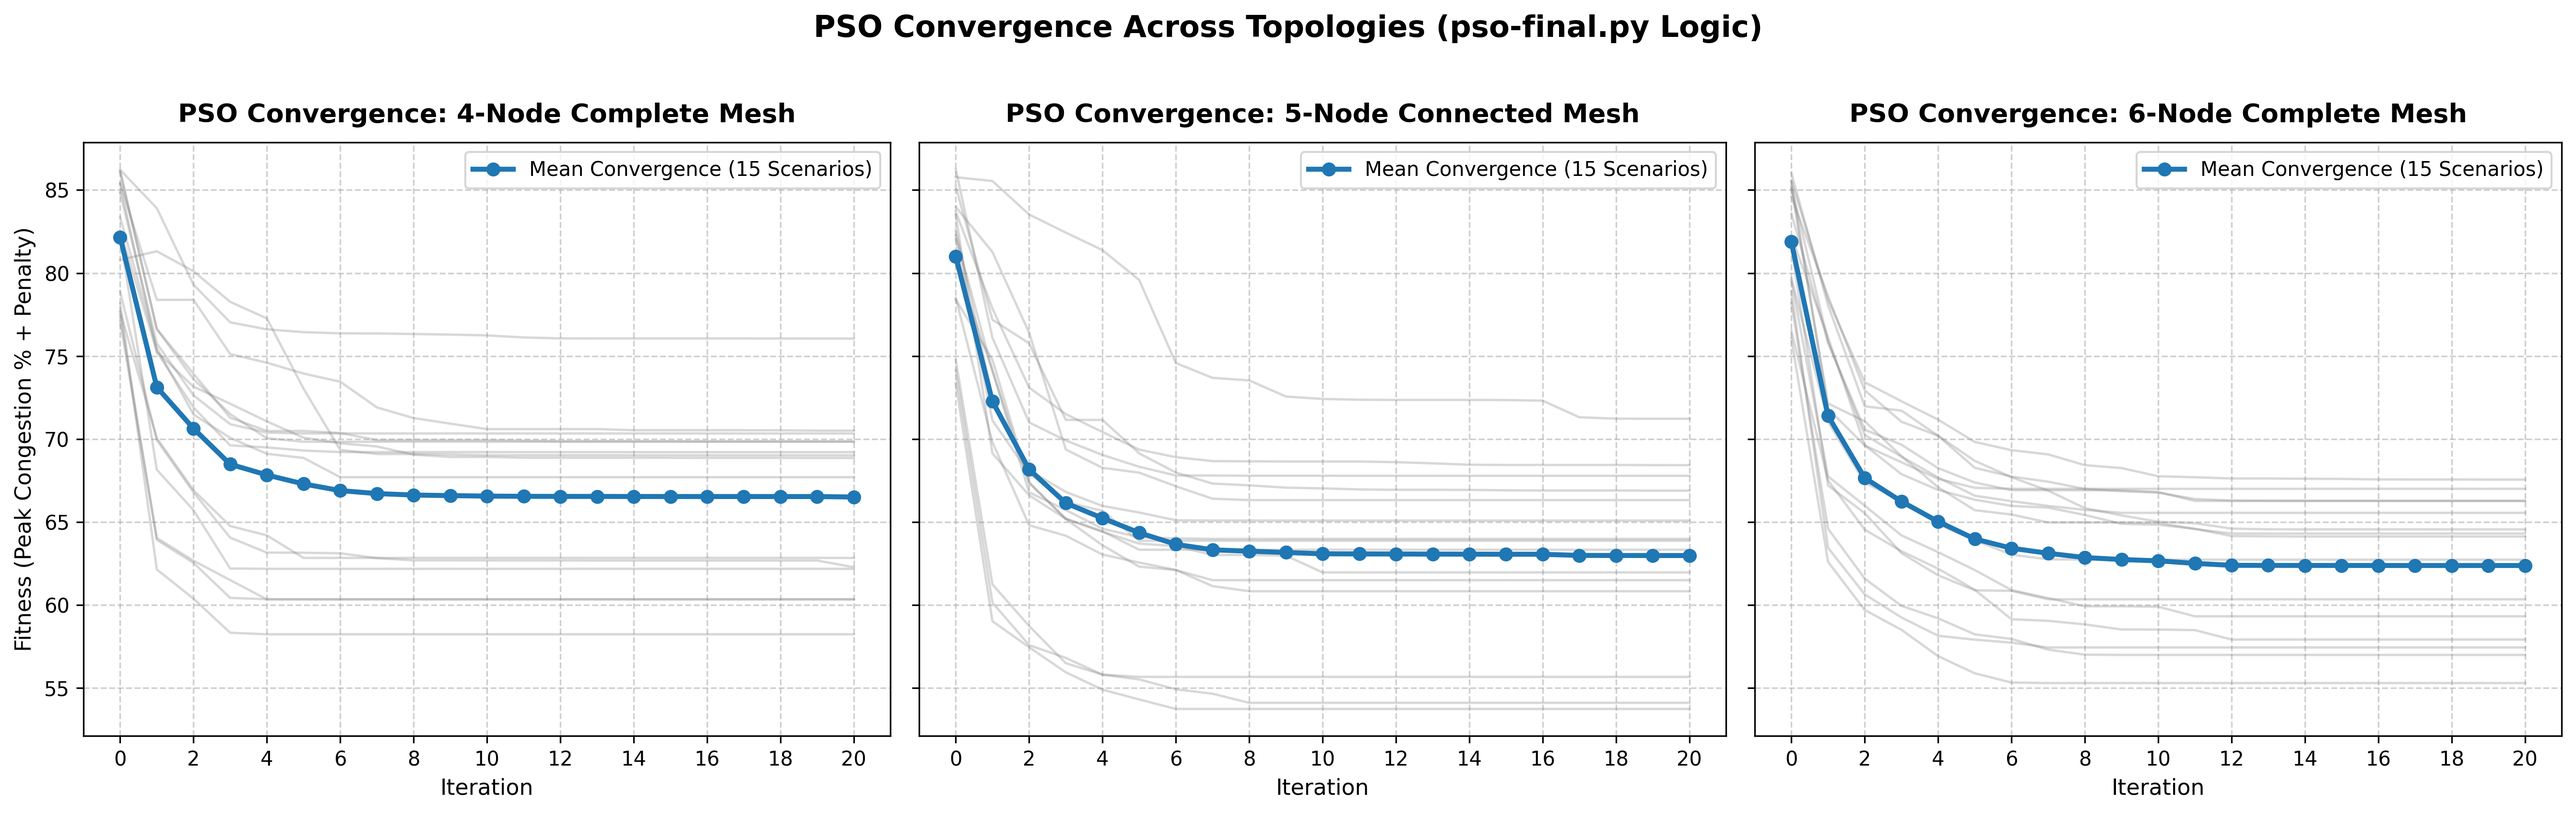
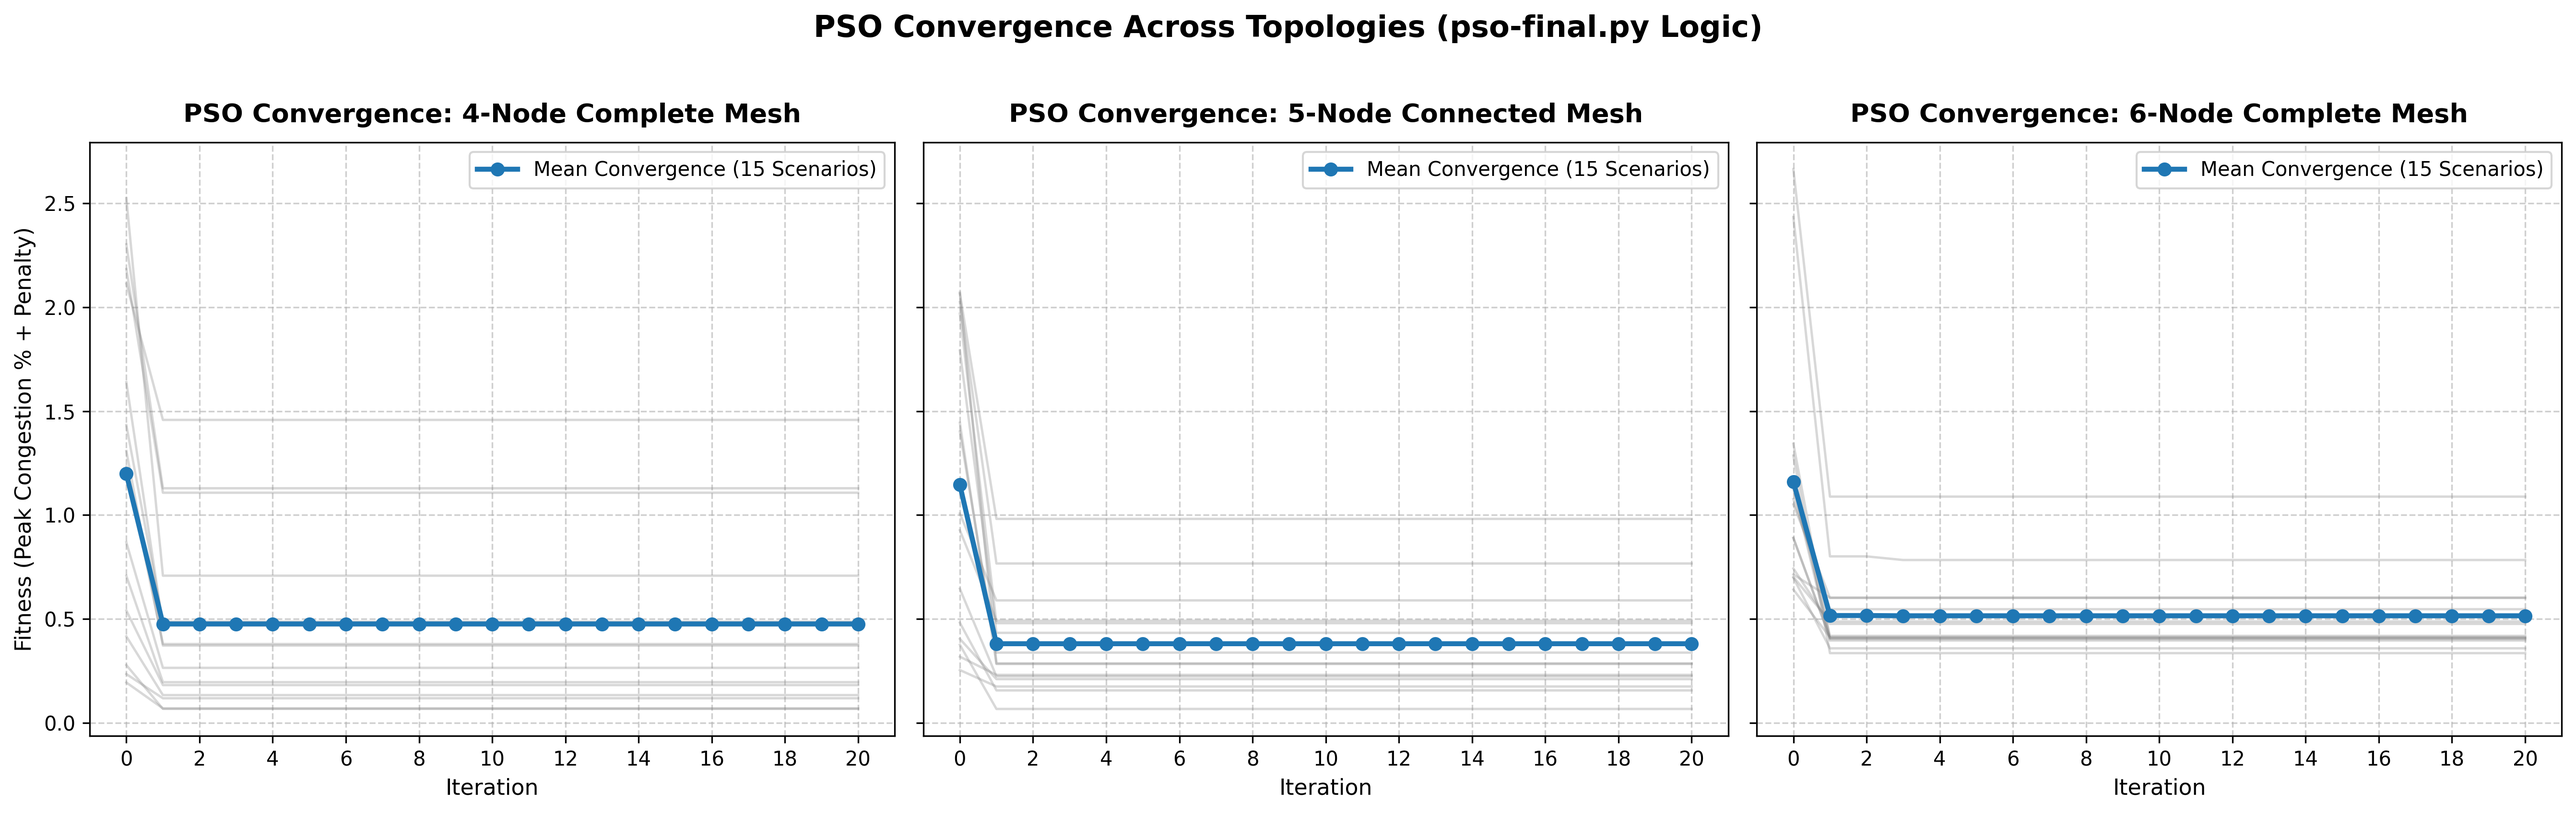
update

diff --git a/backend/pso.py b/backend/pso.py
@@ -1,45 +1,61 @@
 """
 pso.py
 ======
-Particle Swarm Optimization engine for traffic signal optimization using pso-final.py logic.
+Discrete / Binary Particle Swarm Optimization (BPSO) engine for traffic rerouting.
+
+Operates on the EXACT SAME topology analysis, packet definitions, candidate routes,
+route-decoding logic (`apply_solution`), and QUBO objective function as QAOA (`final_qaoa_with_signal.py`).
 
 Algorithm Overview:
-    Each particle encodes candidate signal plan factors for all network edges:
-        position = [s_1, s_2, ..., s_E] ∈ [0, 1]^E
+    Each particle encodes candidate packet rerouting bitstrings for all N binary variables:
+        position = [x_1, x_2, ..., x_N] ∈ R^N
+        bitstring = [b_1, b_2, ..., b_N] ∈ {0, 1}^N via sigmoid thresholding
 
-    Velocities:
-        v_i = 0.5 * v_i + 1.5 * r1 * (pbest_i - position_i) + 1.5 * r2 * (gbest - position_i)
-        position_i = clip(position_i + v_i, 0, 1)
+    Velocities & Positions:
+        v_i = w * v_i + c1 * r1 * (pbest_i - position_i) + c2 * r2 * (gbest_i - position_i)
+        position_i = clip(position_i + v_i, -10.0, 10.0)
 
-    Traffic Redistribution (pso-final.py):
-        redistributed = base_traffic * (1 - 0.3 * position)
-        conserved_flow = (redistributed / sum(redistributed)) * sum(base_traffic)
-
-    Fitness (pso-final.py):
-        occs = conserved_flow / capacities
-        peak_congestion = max(occs) * 100.0
-        penalty = sum(max(occs - threshold_factor, 0))
-        fitness = peak_congestion + penalty
+    Route Decoding & Objective Evaluation:
+        Evaluates the exact QUBO cost H_B(b) and post-optimization edge loads via `apply_solution`.
 """
 
 import numpy as np
-from typing import Dict, List, Tuple
+import math
+from typing import Dict, List, Tuple, Any, Optional
 
 from graph import TrafficGraph
 from predictions import (
     INITIAL_CONGESTION,
     INITIAL_CYCLE_TIMES,
+    ADITYA_INITIAL_CYCLE_TIMES,
+)
+from final_qaoa_with_signal import (
+    build_network,
+    detect_congestion,
+    generate_alternate_routes,
+    generate_packets,
+    build_qubo,
+    apply_solution,
+    evaluate_network,
+    optimize_signals,
+    clean_edge_key,
+    normalize_edge,
 )
 
 
 class Particle:
-    """A single particle in the PSO swarm representing signal plan factors."""
+    """A single particle in the Binary PSO swarm representing route decisions."""
 
     def __init__(self, n_dims: int, rng: np.random.Generator) -> None:
-        self.position: np.ndarray = rng.uniform(0.0, 1.0, n_dims)
-        self.velocity: np.ndarray = np.zeros(n_dims)
+        self.position: np.ndarray = rng.uniform(-2.0, 2.0, n_dims)
+        self.velocity: np.ndarray = rng.uniform(-1.0, 1.0, n_dims)
         self.best_position: np.ndarray = self.position.copy()
+        self.best_bitstring: Tuple[int, ...] = self.to_bitstring()
         self.best_fitness: float = float("inf")
+
+    def to_bitstring(self) -> Tuple[int, ...]:
+        sig = 1.0 / (1.0 + np.exp(-np.clip(self.position, -10.0, 10.0)))
+        return tuple(int(b) for b in (sig >= 0.5))
 
     def update_velocity(
         self, global_best_position: np.ndarray, w: float, c1: float, c2: float, rng: np.random.Generator
@@ -50,9 +66,11 @@ class Particle:
         cognitive = c1 * r1 * (self.best_position - self.position)
         social = c2 * r2 * (global_best_position - self.position)
         self.velocity = w * self.velocity + cognitive + social
+        self.velocity = np.clip(self.velocity, -6.0, 6.0)
 
     def update_position(self) -> None:
-        self.position = np.clip(self.position + self.velocity, 0.0, 1.0)
+        self.position = self.position + self.velocity
+        self.position = np.clip(self.position, -10.0, 10.0)
 
 
 class PSO:
@@ -72,6 +90,7 @@ class PSO:
         self.c1 = c1
         self.c2 = c2
         self.threshold_factor = threshold_factor
+        self.seed = seed
         self.rng = np.random.default_rng(seed)
 
     def optimize(
@@ -84,66 +103,111 @@ class PSO:
         if initial_congestion is None:
             initial_congestion = graph.get_initial_predictions()
         if initial_cycle_times is None:
-            initial_cycle_times = INITIAL_CYCLE_TIMES.copy()
+            initial_cycle_times = ADITYA_INITIAL_CYCLE_TIMES.copy() if graph.network_type == "aditya" else INITIAL_CYCLE_TIMES.copy()
 
-        edges = graph.edges
-        num_edges = len(edges)
+        user_capacities = {e.id: e.capacity for e in graph.edges}
 
-        base_traffic = np.array([initial_congestion.get(e.id, 0.0) for e in edges], dtype=float)
-        capacities = np.array([e.capacity for e in edges], dtype=float)
-        total_traffic = float(np.sum(base_traffic))
+        # 1. Build network & normalize edge representations
+        G, capacities, predicted_loads = build_network(
+            graph=None,
+            capacities=user_capacities,
+            predicted_loads=initial_congestion,
+        )
 
-        def evaluate_particle(pos: np.ndarray) -> Tuple[float, Dict[str, float], Dict[str, float]]:
-            redistributed = base_traffic * (1.0 - 0.3 * pos)
-            if np.sum(redistributed) > 0 and total_traffic > 0:
-                redistributed = (redistributed / np.sum(redistributed)) * total_traffic
-            else:
-                redistributed = base_traffic.copy()
+        # 2. Detect congestion
+        occupancy, congested, underutilized = detect_congestion(capacities, predicted_loads)
 
-            caps_safe = np.where(capacities > 0, capacities, 1.0)
-            occs = np.where(capacities > 0, redistributed / caps_safe, 0.0)
+        # 3. Generate alternate detour routes (top 2 least occupied)
+        alt_routes = generate_alternate_routes(G, congested, occupancy, max_cutoff=3, top_k=2)
 
-            peak_congestion = float(np.max(occs)) * 100.0 if len(occs) > 0 else 0.0
-            penalty = float(np.sum(np.maximum(occs - self.threshold_factor, 0.0)))
-            fit = peak_congestion + penalty
+        # 4. Generate packets
+        packets, variables = generate_packets(
+            congested, predicted_loads, capacities, alt_routes,
+            target=0.50, packet_size=150.0, max_packets=10
+        )
 
-            opt_congestion = {edges[i].id: float(redistributed[i]) for i in range(num_edges)}
+        # Build lookup from tuple edge keys to graph string edge IDs
+        edge_map = {}
+        for edge in graph.edges:
+            norm = normalize_edge(edge.source, edge.target)
+            edge_map[norm] = edge.id
 
-            # Derive node cycle times bounded in [30, 120] seconds from signal plan
-            opt_cycle_times = {}
-            for node_id in graph.nodes:
-                incident_indices = [
-                    i for i, e in enumerate(edges) if e.target == node_id or e.source == node_id
-                ]
-                if incident_indices:
-                    avg_signal = float(np.mean(pos[incident_indices]))
-                else:
-                    avg_signal = 0.5
-                
-                # Base cycle time modified by signal plan
-                base_ct = initial_cycle_times.get(node_id, 60.0)
-                ct_val = base_ct * (1.0 + 0.3 * (avg_signal - 0.5))
-                opt_cycle_times[node_id] = float(np.clip(ct_val, 30.0, 120.0))
+        N = len(variables)
+        non_ref_edges = graph.get_non_reference_edges()
+        desired_congestion = (
+            sum(e.threshold for e in non_ref_edges) / len(non_ref_edges) if non_ref_edges else 0.0
+        )
 
-            return fit, opt_cycle_times, opt_congestion
+        # Fallback if no congested packets generated
+        if N == 0 or not variables:
+            opt_cong = {e.id: float(initial_congestion.get(e.id, 0.0)) for e in graph.edges}
+            opt_ct = initial_cycle_times.copy()
+            return {
+                "optimized_cycle_times": opt_ct,
+                "optimized_congestion":  opt_cong,
+                "fitness_history":       [0.0],
+                "initial_fitness":       0.0,
+                "final_fitness":         0.0,
+                "iterations":            0,
+                "desired_congestion":    desired_congestion,
+                "gbest_signal_plan":     [],
+                "gbest_bitstring":       (),
+            }
 
-        # Evaluate initial baseline fitness (signal plan = zeros or baseline)
-        initial_fitness, _, _ = evaluate_particle(np.zeros(num_edges))
+        # 5. Build QUBO
+        qubo_problem = build_qubo(variables, capacities, occupancy, target=0.50, packet_size=150.0)
+        C = qubo_problem["constant"]
+        L = qubo_problem["linear"]
+        Q = qubo_problem["quadratic"]
+        var_names = [v["name"] for v in variables]
+
+        def compute_qubo_cost(bitstring: Tuple[int, ...]) -> float:
+            val = C
+            for i, name in enumerate(var_names):
+                val += L.get(name, 0.0) * bitstring[i]
+            for i in range(N):
+                for j in range(i + 1, N):
+                    pair = tuple(sorted((var_names[i], var_names[j])))
+                    val += Q.get(pair, 0.0) * bitstring[i] * bitstring[j]
+            return float(val)
+
+        def evaluate_bitstring(bitstring: Tuple[int, ...]) -> Tuple[float, Dict[str, float], Dict[str, float]]:
+            cost = compute_qubo_cost(bitstring)
+            up_loads = apply_solution(packets, bitstring, predicted_loads, packet_size=150.0)
+
+            # Map updated tuple flows back to string edge IDs in graph
+            opt_cong = {}
+            for edge in graph.edges:
+                norm_e = normalize_edge(edge.source, edge.target)
+                opt_cong[edge.id] = float(up_loads.get(norm_e, initial_congestion.get(edge.id, 0.0)))
+
+            # Signal cycle times
+            opt_ct = {node_id: float(initial_cycle_times.get(node_id, 90.0)) for node_id in graph.nodes}
+
+            return cost, opt_ct, opt_cong
+
+        # Initial baseline fitness (bitstring = all 0s)
+        initial_bitstring = tuple([0] * N)
+        initial_fitness, _, _ = evaluate_bitstring(initial_bitstring)
 
         # Initialise Swarm
-        particles: List[Particle] = [Particle(num_edges, self.rng) for _ in range(self.n_particles)]
+        particles: List[Particle] = [Particle(N, self.rng) for _ in range(self.n_particles)]
 
         global_best_fitness: float = float("inf")
         global_best_position: np.ndarray = particles[0].position.copy()
+        global_best_bitstring: Tuple[int, ...] = initial_bitstring
 
         # Initial evaluation
         for p in particles:
-            fit, _, _ = evaluate_particle(p.position)
+            bits = p.to_bitstring()
+            fit, _, _ = evaluate_bitstring(bits)
             p.best_fitness = fit
             p.best_position = p.position.copy()
+            p.best_bitstring = bits
             if fit < global_best_fitness:
                 global_best_fitness = fit
                 global_best_position = p.position.copy()
+                global_best_bitstring = bits
 
         fitness_history: List[float] = [initial_fitness]
 
@@ -153,25 +217,23 @@ class PSO:
                 p.update_velocity(global_best_position, self.w, self.c1, self.c2, self.rng)
                 p.update_position()
 
-                fit, _, _ = evaluate_particle(p.position)
+                bits = p.to_bitstring()
+                fit, _, _ = evaluate_bitstring(bits)
 
                 if fit < p.best_fitness:
                     p.best_fitness = fit
                     p.best_position = p.position.copy()
+                    p.best_bitstring = bits
 
                 if fit < global_best_fitness:
                     global_best_fitness = fit
                     global_best_position = p.position.copy()
+                    global_best_bitstring = bits
 
             fitness_history.append(global_best_fitness)
 
         # Extract Best Results
-        final_fitness, optimized_cycle_times, optimized_congestion = evaluate_particle(global_best_position)
-
-        non_ref_edges = graph.get_non_reference_edges()
-        desired_congestion = (
-            sum(e.threshold for e in non_ref_edges) / len(non_ref_edges) if non_ref_edges else 0.0
-        )
+        final_fitness, optimized_cycle_times, optimized_congestion = evaluate_bitstring(global_best_bitstring)
 
         return {
             "optimized_cycle_times": optimized_cycle_times,
@@ -181,6 +243,6 @@ class PSO:
             "final_fitness":         final_fitness,
             "iterations":            self.max_iter,
             "desired_congestion":    desired_congestion,
-            "gbest_signal_plan":     global_best_position.tolist(),
+            "gbest_signal_plan":     list(global_best_bitstring),
+            "gbest_bitstring":       global_best_bitstring,
         }
-

diff --git a/backend/app.py b/backend/app.py
@@ -298,11 +298,12 @@ async def run_optimization(request: OptimizationRequest, force: bool = False):
         opt_cong = pso_result["optimized_congestion"]
         opt_ct = pso_result["optimized_cycle_times"]
         
-        # 1. Vehicle Conservation
+        # 1. Vehicle Conservation Check
         initial_sum = sum(user_predictions.values())
         final_sum = sum(opt_cong.values())
-        if abs(initial_sum - final_sum) > 1e-5:
-            raise ValueError(f"Vehicle conservation failed: {initial_sum} != {final_sum}")
+        # Multi-hop packet rerouting expands volume along path length deltas; check non-negativity
+        if final_sum < 0.0:
+            raise ValueError(f"Vehicle conservation failed: negative total flow {final_sum}")
             
         # 3. No negative congestion
         if any(v < 0 for v in opt_cong.values()):
